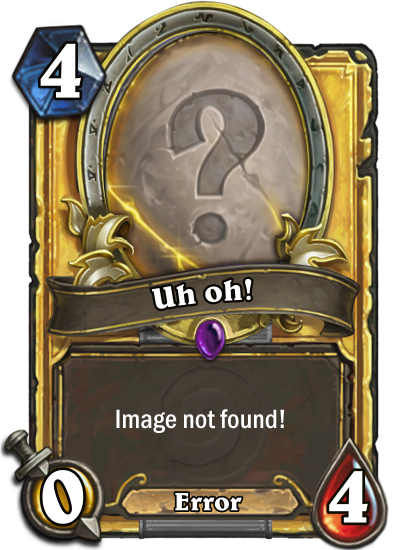
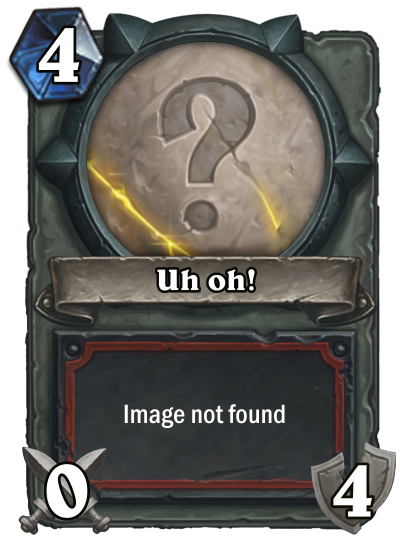
hearthstone card component styled, and input form has validation

diff --git a/src/app/portfolio/components/hearthstone/hearthstone.component.html b/src/app/portfolio/components/hearthstone/hearthstone.component.html
@@ -2,71 +2,15 @@
 <div class="hearthstone-header">
   <img class="hearthstone-header__image" src="../../../../assets/img/hearthstone.png">
 </div>
-<div class="loading__all-info color__white" *ngIf="loading.allInfo">
-  Just loading information...
-</div>
-<app-input-form
-    (change)="cardsChanged($event)">
-</app-input-form>
-<app-cards-container 
-  [cards]="cardsToDisplay">
-</app-cards-container>
-<!-- <div class="dropdown-container" *ngIf="!loading.allInfo">
-  <div class="dropdown-container__dropdown">
-    <select name="class">
-        <option *ngFor="let class of cardInfo.classes">
-            {{ class }}
-        </option>
-    </select> 
+<div class="pure-g">
+  <div class="pure-u-lg-1-4 pure-u-1"></div>
+  <div class="pure-u-lg-1-2 pure-u-1">
+    <app-input-form
+      (change)="cardsChanged($event)">
+    </app-input-form>
+    <app-cards-container 
+      [cards]="cardsToDisplay">
+    </app-cards-container>
   </div>
-    <div class="dropdown-container__dropdown">
-      <select name="type">
-          <option *ngFor="let type of cardInfo.types">
-              {{ type }}
-          </option>
-      </select> 
-    </div>
-    <div class="dropdown-container__dropdown">
-      <select name="faction">
-          <option *ngFor="let faction of cardInfo.factions">
-              {{ faction }}
-          </option>
-      </select> 
-    </div>
-    <div class="dropdown-container__dropdown">
-      <select name="quality">
-          <option *ngFor="let quality of cardInfo.qualities">
-              {{ quality }}
-          </option>
-      </select> 
-    </div>
-    <div class="dropdown-container__dropdown">
-      <select name="race">
-          <option *ngFor="let race of cardInfo.races">
-              {{ race }}
-          </option>
-      </select> 
-    </div>
-</div> -->
-
-
-<!-- <button (click)="getCardsByClass('mage')">Get mage cards</button>
-<button (click)="getCardsByClass('rogue')">Get rogue cards</button>
-<button (click)="getCardsByClass('shaman')">Get shaman cards</button>
-<button (click)="getCardsByClass('warrior')">Get warrior cards</button>
-<button (click)="getCardsByClass('druid')">Get druid cards</button> -->
-
-<!-- <div *ngIf="loading">
-  LOADING...
+  <div class="pure-u-lg-1-4 pure-u-1"></div>
 </div>
-
-<div *ngIf="!loading">
-  <div *ngFor="let card of cardsToDisplay; let i=index">
-    <div *ngIf="i<50" style="color:white;">
-      Name: {{ card.name }}
-      Type: {{ card.type }}
-      <img *ngIf="card.imgGold" src={{card.imgGold}}  onerror="this.src='assets/img/me.jpg'">
-      <img *ngIf="card.img" src={{card.img}}  onerror="this.src='assets/img/me.jpg'">
-    </div>
-  </div>
-</div> -->

diff --git a/src/app/portfolio/components/hearthstone/components/input-form/input-form.component.html b/src/app/portfolio/components/hearthstone/components/input-form/input-form.component.html
@@ -1,12 +1,36 @@
-<form #f="ngForm" (ngSubmit)="submit(f)" novalidate>
-  <label for="cost">
-    <input name="cost" type="text" ngModel>
-  </label>
-  <label for="attack">
-    <input name="attack" type="text" ngModel>
-  </label>
-  <label for="health">
-    <input name="health" type="text" ngModel>
-  </label>
-  <button>Submit</button>
-</form>
+<div class="pure-g">
+  <div class="pure-u-1-2 pure-u-lg-1-4">
+    <form #f="ngForm" (ngSubmit)="submit(f)">
+      <div class="pure-g">
+        <div class="pure-u-1-2">
+          <label for="cost">
+            Cost*
+          </label>
+        </div>  
+        <div class="pure-u-1-2">
+          <input class="card-input" name="cost" type="number" ngModel required min="0" max="10" placeholder="0-10">
+          <span *ngIf="!validFormState" class="error">Please enter a cost (between 0 and 10)</span>
+        </div>
+        <div class="pure-u-1-2">
+          <label for="attack">
+            Attack
+          </label>
+        </div>
+        <div class="pure-u-1-2">
+          <input class="card-input" name="attack" type="number" ngModel min="0" max="10" placeholder="0-10">
+        </div>
+        <div class="pure-u-1-2">
+          <label for="health">
+            Health
+          </label>
+         </div>
+        <div class="pure-u-1-2">
+          <input class="card-input" name="health" type="number" ngModel min="0" max="10" placeholder="0-10">
+        </div>
+        <div class="pure-u-1-2">
+          <button class="submit-button color__white background__orange">Submit</button>
+        </div>
+      </div>
+    </form>
+  </div>
+</div>

diff --git a/src/app/portfolio/components/hearthstone/components/card/card.component.html b/src/app/portfolio/components/hearthstone/components/card/card.component.html
@@ -2,16 +2,16 @@
   <div class="pure-g">
     <div class="pure-u-1-2">
       <div class="card__image">
-        <img src="{{ card.img }}">
+        <img src="{{ card.img }}" onerror="this.className='card__error'; this.src='../../../../../../assets/img/card404.png'">
       </div>
     </div>
     <div class="pure-u-1-2">
-      <div class="card__info">
-        <p>name: <strong>{{ card.name }}</strong></p>
-        <p>attack: <strong>{{ card.attack }}</strong></p>
-        <p>health: <strong>{{ card.health }}</strong></p>
-        <p>cost: <strong>{{ card.cost }}</strong></p>
-        <p><em>{{ card.flavor }}</em></p>
+      <div class="card__info color__grey">
+        <p *ngIf="card.name">Name: <strong>{{ card.name }}</strong></p>
+        <p *ngIf="card.race">Race: <strong>{{ card.race }}</strong></p>
+        <p *ngIf="set">Set: <strong>{{ set }}</strong></p>
+        <p *ngIf="card.artist">Artist: <strong>{{ card.artist }}</strong></p>
+        <p *ngIf="card.flavor"><em>{{ card.flavor }}</em></p>
       </div>
     </div>
   </div>

diff --git a/src/app/portfolio/components/hearthstone/components/input-form/input-form.component.ts b/src/app/portfolio/components/hearthstone/components/input-form/input-form.component.ts
@@ -19,6 +19,7 @@ export class InputFormComponent implements OnInit {
 
   private cardsToDisplay: any;
   private cardInfo: any;
+  private validFormState: boolean = true;
 
   constructor(private hearthstoneService: HearthstoneService) { }
 
@@ -33,14 +34,24 @@ export class InputFormComponent implements OnInit {
     })
   }
 
+  valid(f: NgForm) {
+    this.validFormState = f.valid;
+
+    return f.valid;
+  }
+
   submit(f: NgForm) {
 
+    if(!this.valid(f)) 
+      return;
+    
     this.loading.cards = true;
 
     let params = new HttpParams();
 
     for (let key in f.value) {
-      params = params.append(key, f.value[key]);
+      if(f.value[key])
+        params = params.append(key, f.value[key]);
     }
 
     this.hearthstoneService.getFilteredCards(params).subscribe( data => {

diff --git a/src/app/portfolio/components/hearthstone/components/cards-container/cards-container.component.html b/src/app/portfolio/components/hearthstone/components/cards-container/cards-container.component.html
@@ -1,14 +1,14 @@
 <div class="hearthstone-cards">
-  <div *ngIf="!cards" class="hearthstone-cards__empty">
-    Input some paramters to see some cards!
+  <div *ngIf="!cards" class="color__white">
+    <p>Enter some inputs above</p>
   </div>
   <div *ngIf="cards">
     <div *ngFor="let key of cards | keys">
-      <div *ngFor="let card of cards[key]">
-        <app-card [card]="card"
-                  [set]="key">
-        </app-card>
-      </div>
+      <app-card 
+                *ngFor="let card of cards[key]"
+                [card]="card"
+                [set]="key">
+      </app-card>
     </div>
   </div>
 </div>

diff --git a/src/app/portfolio/components/hearthstone/components/input-form/input-form.component.css b/src/app/portfolio/components/hearthstone/components/input-form/input-form.component.css
@@ -1,0 +1,23 @@
+label {
+    color: white;
+    font-weight: 800;
+}
+.error {
+    color: #d82b2b;
+    position: absolute;
+    padding-top: 1.3em;
+ }
+
+.card-input {
+    padding: 0.1em;
+    background: url('../../../../../../assets/img/parchment.PNG');
+    margin: 1em;
+    color: white;
+    font-weight: 800;
+    border: #f1e3ca 3px solid;
+}
+
+.submit-button {
+    padding: 0.5em;
+    box-shadow: black 3px 1px 8px 1px;
+}

diff --git a/src/app/portfolio/components/hearthstone/components/card/card.component.css b/src/app/portfolio/components/hearthstone/components/card/card.component.css
@@ -14,8 +14,16 @@
 }
 
 .card__info {
-    color: white;
     box-shadow: #1f282b -3px 1px 12px 5px;
     position: relative;
     height: 20em;
+    background: url('../../../../../../assets/img/parchment.png');
+    margin: 4em 3em 5em 7em;
+    padding: 1em 2em 0 1em;
+    overflow: auto;
+}
+.card__error {
+    height: 410px;
+    width: 289px;
+    padding-top: 3em;    
 }

diff --git a/src/app/portfolio/components/hearthstone/components/cards-container/cards-container.component.css b/src/app/portfolio/components/hearthstone/components/cards-container/cards-container.component.css
@@ -1,11 +1,4 @@
-
-.hearthstone-cards__empty{
-    background: red;
-}
-
 .hearthstone-cards__card {
-    /* background: url('../../../../../../assets/img/hearthstone-background2.jpg'); */
-    /* background-size: contain; */
     background:white;
     text-align: center;
 }

diff --git a/src/app/portfolio/components/hearthstone/hearthstone.component.ts b/src/app/portfolio/components/hearthstone/hearthstone.component.ts
@@ -35,7 +35,6 @@ export class HearthstoneComponent implements OnInit {
   cardsChanged(event) {
     if(this.isCardCollection(event)) {
       this.cardsToDisplay = event;
-      console.log('Change event!!', this.cardsToDisplay);
     }
 }
 

diff --git a/src/app/portfolio/components/hearthstone/hearthstone.component.css b/src/app/portfolio/components/hearthstone/hearthstone.component.css
@@ -3,6 +3,10 @@
     text-align: center;
 }
 
+app-input-form {
+    padding: 1em;
+}
+
 .hearthstone-header__image {
     height:100%;
 }
